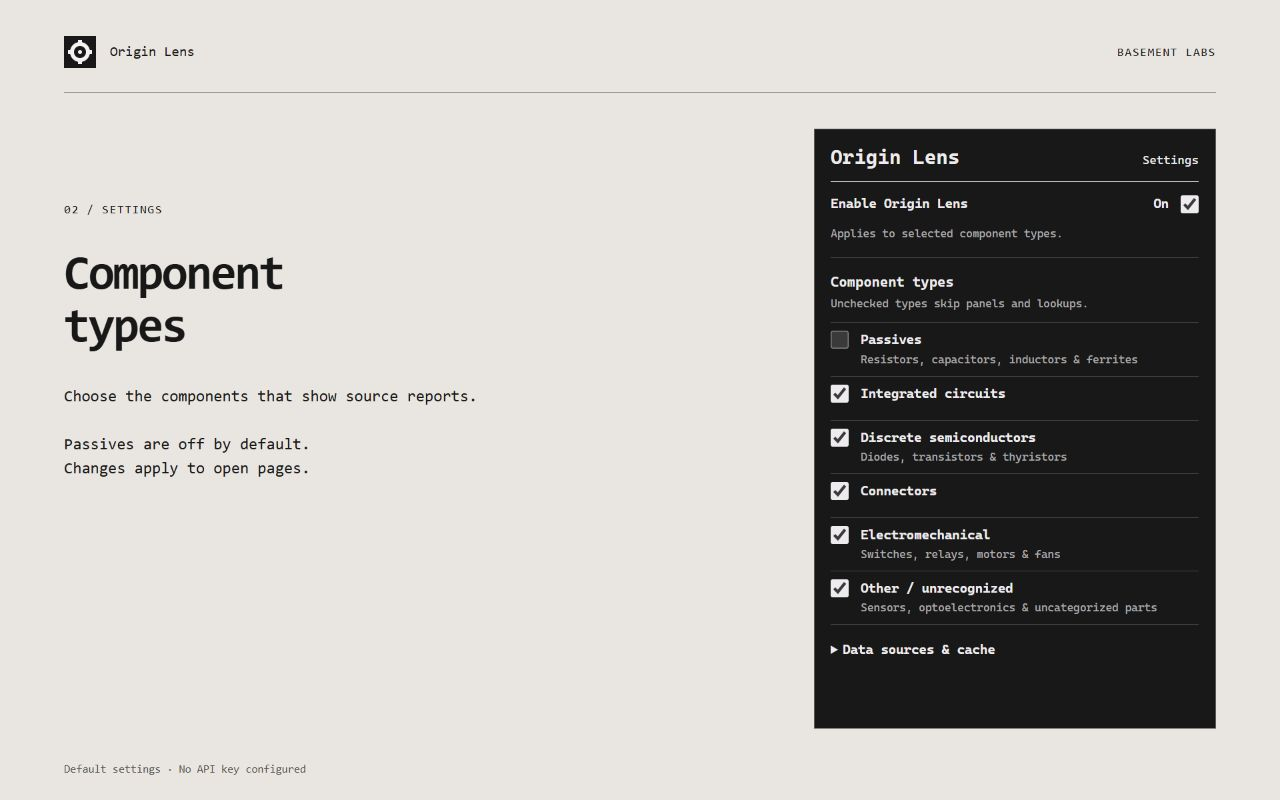
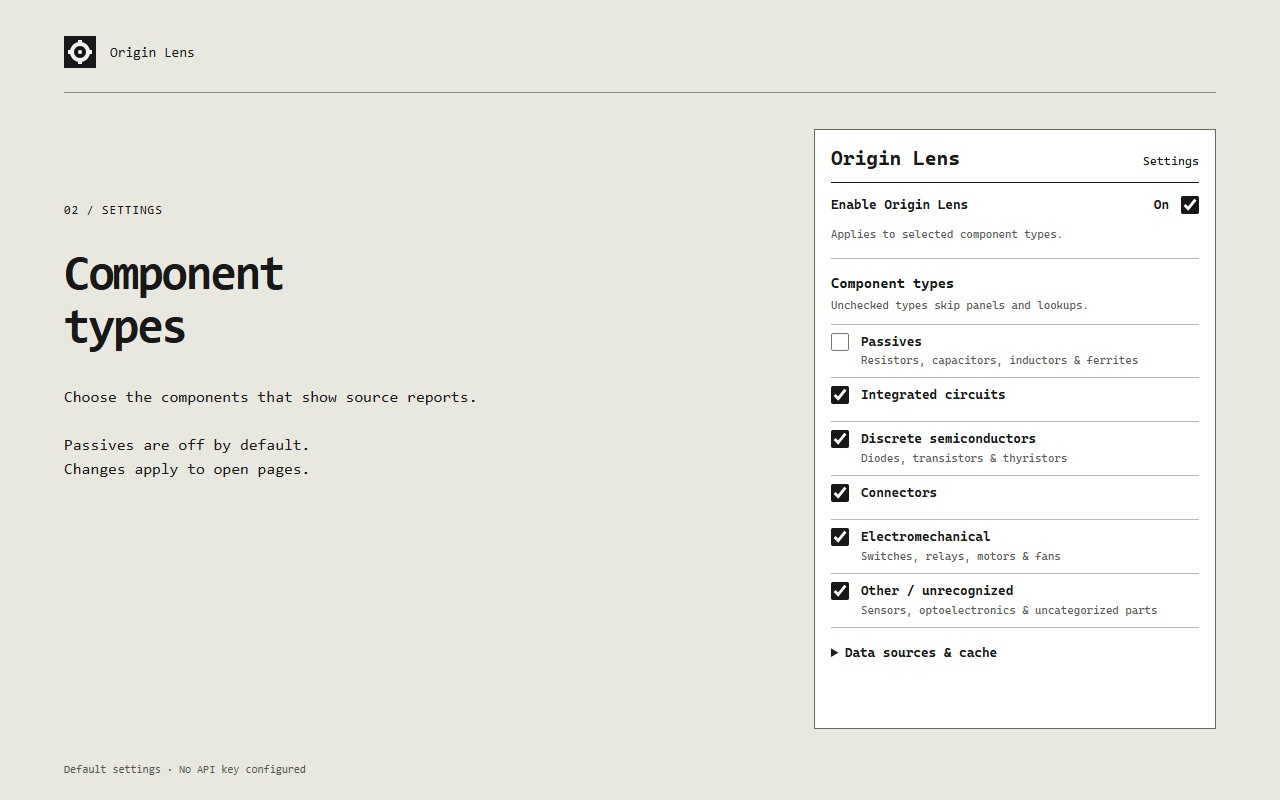
Use Origin Lens branding and GitHub support for preview release

diff --git a/extensions/origin-lens/popup.html b/extensions/origin-lens/popup.html
@@ -51,7 +51,7 @@
       <button id="clear" type="button">Clear cached results</button>
       <p class="hint">Lookups send the part number to these sources. Saved reports retain their source and check time; Mouser API reports are requested on each page.</p>
       <p class="hint">No analytics or account changes. Settings apply to open pages.</p>
-      <p class="hint"><a href="https://github.com/hornej/hw-skills/blob/josh-origin-lens-store-release/extensions/origin-lens/PRIVACY.md" target="_blank" rel="noopener noreferrer">Privacy policy</a> · <a href="mailto:info@basementlabs.net">Contact Basement Labs</a></p>
+      <p class="hint"><a href="https://github.com/hornej/hw-skills/blob/main/extensions/origin-lens/PRIVACY.md" target="_blank" rel="noopener noreferrer">Privacy policy</a> · <a href="https://github.com/hornej/hw-skills/issues" target="_blank" rel="noopener noreferrer">Support</a></p>
     </details>
   </main>
 </body>

diff --git a/extensions/origin-lens/CHROMEWEBSTORE.md b/extensions/origin-lens/CHROMEWEBSTORE.md
@@ -2,14 +2,14 @@
 
 Last updated: 2026-10-21
 
-**Release candidate 0.12.4 prepared; not submitted.** Publisher: Basement Labs.
+**Release candidate 0.12.5 prepared; not submitted.** Publisher identity pending.
 This record contains the submission copy and remaining dashboard/manual checks.
 Installation and release steps are in the [README](README.md#install-or-update).
 
 Developer registration is complete. Organization verification and the public
 publisher profile remain pending; the requested verification documents are
 prepared privately but have not been submitted. No Chrome Web Store item has
-been created. Coworker testing will use the GitHub 0.12.4 prerelease while
+been created. Coworker testing will use the GitHub 0.12.5 prerelease while
 publisher verification is deferred.
 
 ## Store listing
@@ -74,6 +74,8 @@ electronic component ordering codes on DigiKey and Mouser product pages.
 Capture details and the editable tile are in [store-assets](store-assets/README.md).
 The [README](README.md) also displays these three screenshots for installation
 and usage context.
+The settings screenshot and promotional tile were refreshed on October 21 to
+use only Origin Lens branding.
 Images exclude account details and credentials. They use the existing plain
 visual style; no slogans or implied supplier endorsement. See Google's
 [image requirements](https://developer.chrome.com/docs/webstore/images).
@@ -172,10 +174,11 @@ confirm them in the dashboard for the actual submitted release:
 **Public privacy-policy URL:**
 [Origin Lens privacy policy](https://github.com/hornej/hw-skills/blob/main/extensions/origin-lens/PRIVACY.md).
 
-The [policy source](PRIVACY.md) identifies Basement Labs and
-info@basementlabs.net, with direct supplier requests, credentials, retention,
-deletion and support handling. Verify the public URL without authentication
-before submitting. The policy does not replace the dashboard disclosures.
+The [policy source](PRIVACY.md) identifies the repository maintainer and GitHub
+support channel, with direct supplier requests, credentials, retention, deletion
+and support handling. Finalize the publisher identity and verified contact email
+before submission, then align the policy with the dashboard. Verify the public
+URL without authentication. The policy does not replace the dashboard disclosures.
 
 ## Distribution
 
@@ -192,9 +195,9 @@ Unlisted and Private submissions still require review.
 
 ## Developer information
 
-- **Publisher name:** Basement Labs.
-- **Contact email:** info@basementlabs.net; complete Google's email verification.
-- **Support:** [Email Basement Labs](mailto:info@basementlabs.net) or [public issue tracker](https://github.com/hornej/hw-skills/issues). Do not post credentials or confidential data in issues.
+- **Publisher name:** Pending final selection before submission.
+- **Contact email:** Pending selection and Google's email verification.
+- **Support:** [Public issue tracker](https://github.com/hornej/hw-skills/issues). Do not post credentials or confidential data in issues.
 - **Homepage:** [Origin Lens README](https://github.com/hornej/hw-skills/tree/main/extensions/origin-lens).
 - **Store item ID and installation URL:** Not created.
 
@@ -210,6 +213,7 @@ the first item; increase it for subsequent uploads to that same item.
 | Version | Date | Changes | Status |
 | --- | --- | --- | --- |
 | 0.12.4 | 2026-10-20 | Initial store candidate; live-only Mouser API results, privacy policy and store assets; includes current OCR and ST document-evidence updates | Prepared; not submitted |
+| 0.12.5 | 2026-10-21 | Origin Lens branding only; GitHub support links; refreshed settings screenshot and promotional tile | Prepared; not submitted |
 
 ## Review notes and remaining work
 
@@ -217,7 +221,7 @@ the first item; increase it for subsequent uploads to that same item.
 - [ ] Complete the trader/non-trader declaration and any required verification.
 - [ ] Set the public publisher profile, verify the contact email and confirm
   2-Step Verification.
-- [x] Set the release version to 0.12.4 on the release branch.
+- [x] Set the release version to 0.12.5 on the release branch.
 - [x] Prepare store screenshots and the small promotional tile.
 - [x] Prepare the privacy policy, dashboard data inventory and listing copy.
 - [x] Recheck permission scope: two extension permissions and fourteen named hosts.
@@ -233,7 +237,7 @@ the first item; increase it for subsequent uploads to that same item.
 ### Release build and reviewer instructions
 
 Run `python extensions/origin-lens/scripts/package-release.py` from the release
-checkout. Upload `extensions/origin-lens/dist/origin-lens-0.12.4.zip`, not the
+checkout. Upload `extensions/origin-lens/dist/origin-lens-0.12.5.zip`, not the
 repository archive. The adjacent `.sha256` and `-inventory.json` identify the
 exact contents. Development scripts, tests, store assets and credentials are
 excluded. The ZIP includes the extension license and bundled OCR notices.
@@ -284,6 +288,15 @@ privacy disclosures; it has not been built. See [shared credentials](DEVELOPMENT
 - The existing installed interface was exercised on DigiKey for source refresh,
   collapse/expand and the photo disclosure. The release ZIP itself still needs
   the final manual load-unpacked check before store submission.
+
+### Validation record — October 21, 2026
+
+- All 124 offline tests passed for 0.12.5.
+- The settings screenshot and promotional tile were regenerated from their
+  source files and visually checked. The local popup preview's GitHub support
+  and privacy links were verified, with no browser script errors.
+- The change is limited to branding, support links, documentation and release
+  metadata. The exact packaged-extension installation check remains pending.
 
 ### Known limits to disclose
 

diff --git a/extensions/origin-lens/PRIVACY.md b/extensions/origin-lens/PRIVACY.md
@@ -1,10 +1,11 @@
 # Origin Lens privacy policy
 
-Effective date: October 20, 2026
+Effective date: October 21, 2026
 
-Publisher: **Basement Labs**
+Maintainer: **[hornej](https://github.com/hornej)**
 
-Support and privacy contact: **[info@basementlabs.net](mailto:info@basementlabs.net)**
+Support and privacy questions: **[GitHub issue tracker](https://github.com/hornej/hw-skills/issues)**.
+Issues are public; do not post credentials or confidential information.
 
 Origin Lens compares origin and manufacturing information for electronic
 components on supported DigiKey and Mouser product pages. This policy explains
@@ -70,7 +71,7 @@ requests that image from LCSC without a referrer.
 
 Settings and eligible source reports use local extension storage. The optional
 Mouser key uses the extension's IndexedDB database. These records are not stored
-in Chrome's synchronized settings or sent to Basement Labs.
+in Chrome's synchronized settings or sent to the project maintainer.
 
 Mouser Search API results are displayed on the current page and are **not saved
 to the report cache** or reused from it on another page. Earlier cached API
@@ -97,20 +98,18 @@ and supplier websites may maintain their own caches and account data separately.
 - Uninstall Origin Lens to remove its local extension data. This does not delete
   information held by supplier accounts or revoke a key at its issuer.
 
-## Basement Labs and support
+## Project support
 
 Origin Lens has no publisher-operated data collection server, analytics,
-advertising trackers or crash-reporting service. Basement Labs does not receive
-your part lookups, browsing records, credentials or source reports through the
+advertising trackers or crash-reporting service. The project maintainer does not
+receive your part lookups, browsing records, credentials or source reports through the
 extension. We do not sell this information, use it for advertising, or use it
 for creditworthiness or lending decisions.
 
-If you voluntarily email us for support, we receive the address and information
-you provide and use it to respond and resolve the request. We retain support
-correspondence only as needed for those purposes and applicable obligations.
-You can contact **info@basementlabs.net** with privacy questions or a request
-concerning support information you supplied. Do not include API keys, passwords
-or confidential project data in a support message or public issue.
+Use the [GitHub issue tracker](https://github.com/hornej/hw-skills/issues) for
+support or privacy questions. The maintainer can read the account name and
+information you choose to post and use it to respond to your request. Do not
+include API keys, passwords or confidential project data in a public issue.
 
 The project documentation and public issue tracker are hosted on GitHub. Opening
 those links is subject to GitHub's own policies; information you post in a public

diff --git a/extensions/origin-lens/store-assets/README.md b/extensions/origin-lens/store-assets/README.md
@@ -1,7 +1,7 @@
 # Origin Lens store assets
 
-Prepared October 20, 2026 for Basement Labs. Public support/privacy contact:
-**info@basementlabs.net**. No item has been submitted to the Chrome Web Store.
+Prepared October 20, 2026; settings and promotional captures refreshed October 21.
+No item has been submitted to the Chrome Web Store.
 
 | Upload field | File | Dimensions |
 | --- | --- | --- |
@@ -25,15 +25,16 @@ The source view was refreshed before capture and includes separate DigiKey,
 Mouser API and ST evidence. The photo view shows the LCSC sample, its CHN reading
 and the sample-specific qualification. Values and availability are dated
 observations, not claims about all inventory. No credentials or account details
-are visible. Version 0.12.4 retains these report interfaces and changes API-cache
-handling and privacy links.
+are visible. Versions 0.12.4 and 0.12.5 retain these report interfaces, with
+changes to API-cache handling and privacy/support links.
 
 The settings image renders the actual `popup.html`, CSS and JavaScript with
 default preferences in an isolated local preview, alongside explanatory copy.
 Its mock Chrome storage starts empty; no installed extension preferences or
 API keys are read. The promotional image is rendered from the existing vector
 mark and the SVG source above. Both are browser captures, not generated product
-results.
+results. The settings and promotional captures were refreshed from their source
+files for 0.12.5 using only Origin Lens branding.
 
 To reproduce the settings and promo capture surfaces:
 

diff --git a/extensions/origin-lens/README.md b/extensions/origin-lens/README.md
@@ -4,7 +4,7 @@ Compare country-of-origin and manufacturing reports while browsing DigiKey or
 Mouser. See each source separately, with links to its evidence, package-photo
 markings, and supported STM32 ordering options.
 
-**[Download 0.12.4](https://github.com/hornej/hw-skills/releases/download/origin-lens-v0.12.4/origin-lens-0.12.4.zip)** ·
+**[Download 0.12.5](https://github.com/hornej/hw-skills/releases/download/origin-lens-v0.12.5/origin-lens-0.12.5.zip)** ·
 [Source setup](SETUP.md) · [Report an issue](https://github.com/hornej/hw-skills/issues)
 
 [![Origin Lens on DigiKey, comparing DigiKey, Mouser, and ST origin reports with separate manufacturing evidence](store-assets/01-source-reports.jpg)](store-assets/01-source-reports.jpg)
@@ -35,7 +35,7 @@ folder in step 3. The release ZIP above contains just the extension.
 
 ## Setup for maximum coverage
 
-**Version 0.12.4 uses one user-supplied API key: Mouser Search API.**
+**Version 0.12.5 uses one user-supplied API key: Mouser Search API.**
 To enable every currently implemented source, complete these three steps in
 the **same browser profile** where Origin Lens is installed:
 
@@ -110,5 +110,3 @@ used. See the [privacy policy](PRIVACY.md).
 
 [Source coverage](SOURCES.md) · [Evidence and behavior](DETAILS.md) ·
 [Development and publishing](DEVELOPMENT.md) · [Change history](CHANGELOG.md)
-
-Built by **Basement Labs**. Support: **info@basementlabs.net**.

diff --git a/extensions/origin-lens/DEVELOPMENT.md b/extensions/origin-lens/DEVELOPMENT.md
@@ -47,8 +47,9 @@ Remove or disable the unpacked copy to avoid duplicate panels.
 The [store listing and readiness record](CHROMEWEBSTORE.md) contains the listing
 copy, permission explanations, privacy disclosures and reviewer steps. The
 [store assets](store-assets/README.md) contain three screenshots, the small
-promotional tile and capture details. The publisher is **Basement Labs**, with
-**info@basementlabs.net** as the public support/privacy contact. See the
+promotional tile and capture details. Publisher identity and a verified contact
+email must be finalized before store submission. Current support uses the
+[GitHub issue tracker](https://github.com/hornej/hw-skills/issues). See the
 [privacy policy](PRIVACY.md).
 
 Build the runtime-only release with Python 3 from the repository root:

diff --git a/extensions/origin-lens/CHANGELOG.md b/extensions/origin-lens/CHANGELOG.md
@@ -49,3 +49,5 @@ catalog's declared COO and the notice's assembly locations labeled separately.
 Version 0.12.4 prepares an unlisted store release with a privacy policy, store
 graphics and reproducible packaging. Mouser API reports are now live-only, and
 previously cached API reports are removed automatically.
+Version 0.12.5 uses only Origin Lens branding in the documentation, settings
+preview and promotional tile, and directs popup support links to GitHub.

diff --git a/extensions/origin-lens/SETUP.md b/extensions/origin-lens/SETUP.md
@@ -2,7 +2,7 @@
 
 [Back to installation](README.md#install-or-update)
 
-## Maximum-coverage checklist (0.12.4)
+## Maximum-coverage checklist
 
 - [ ] Save your **Mouser Search API key** in Origin Lens. This is the only
   user-supplied API key the extension currently uses.
